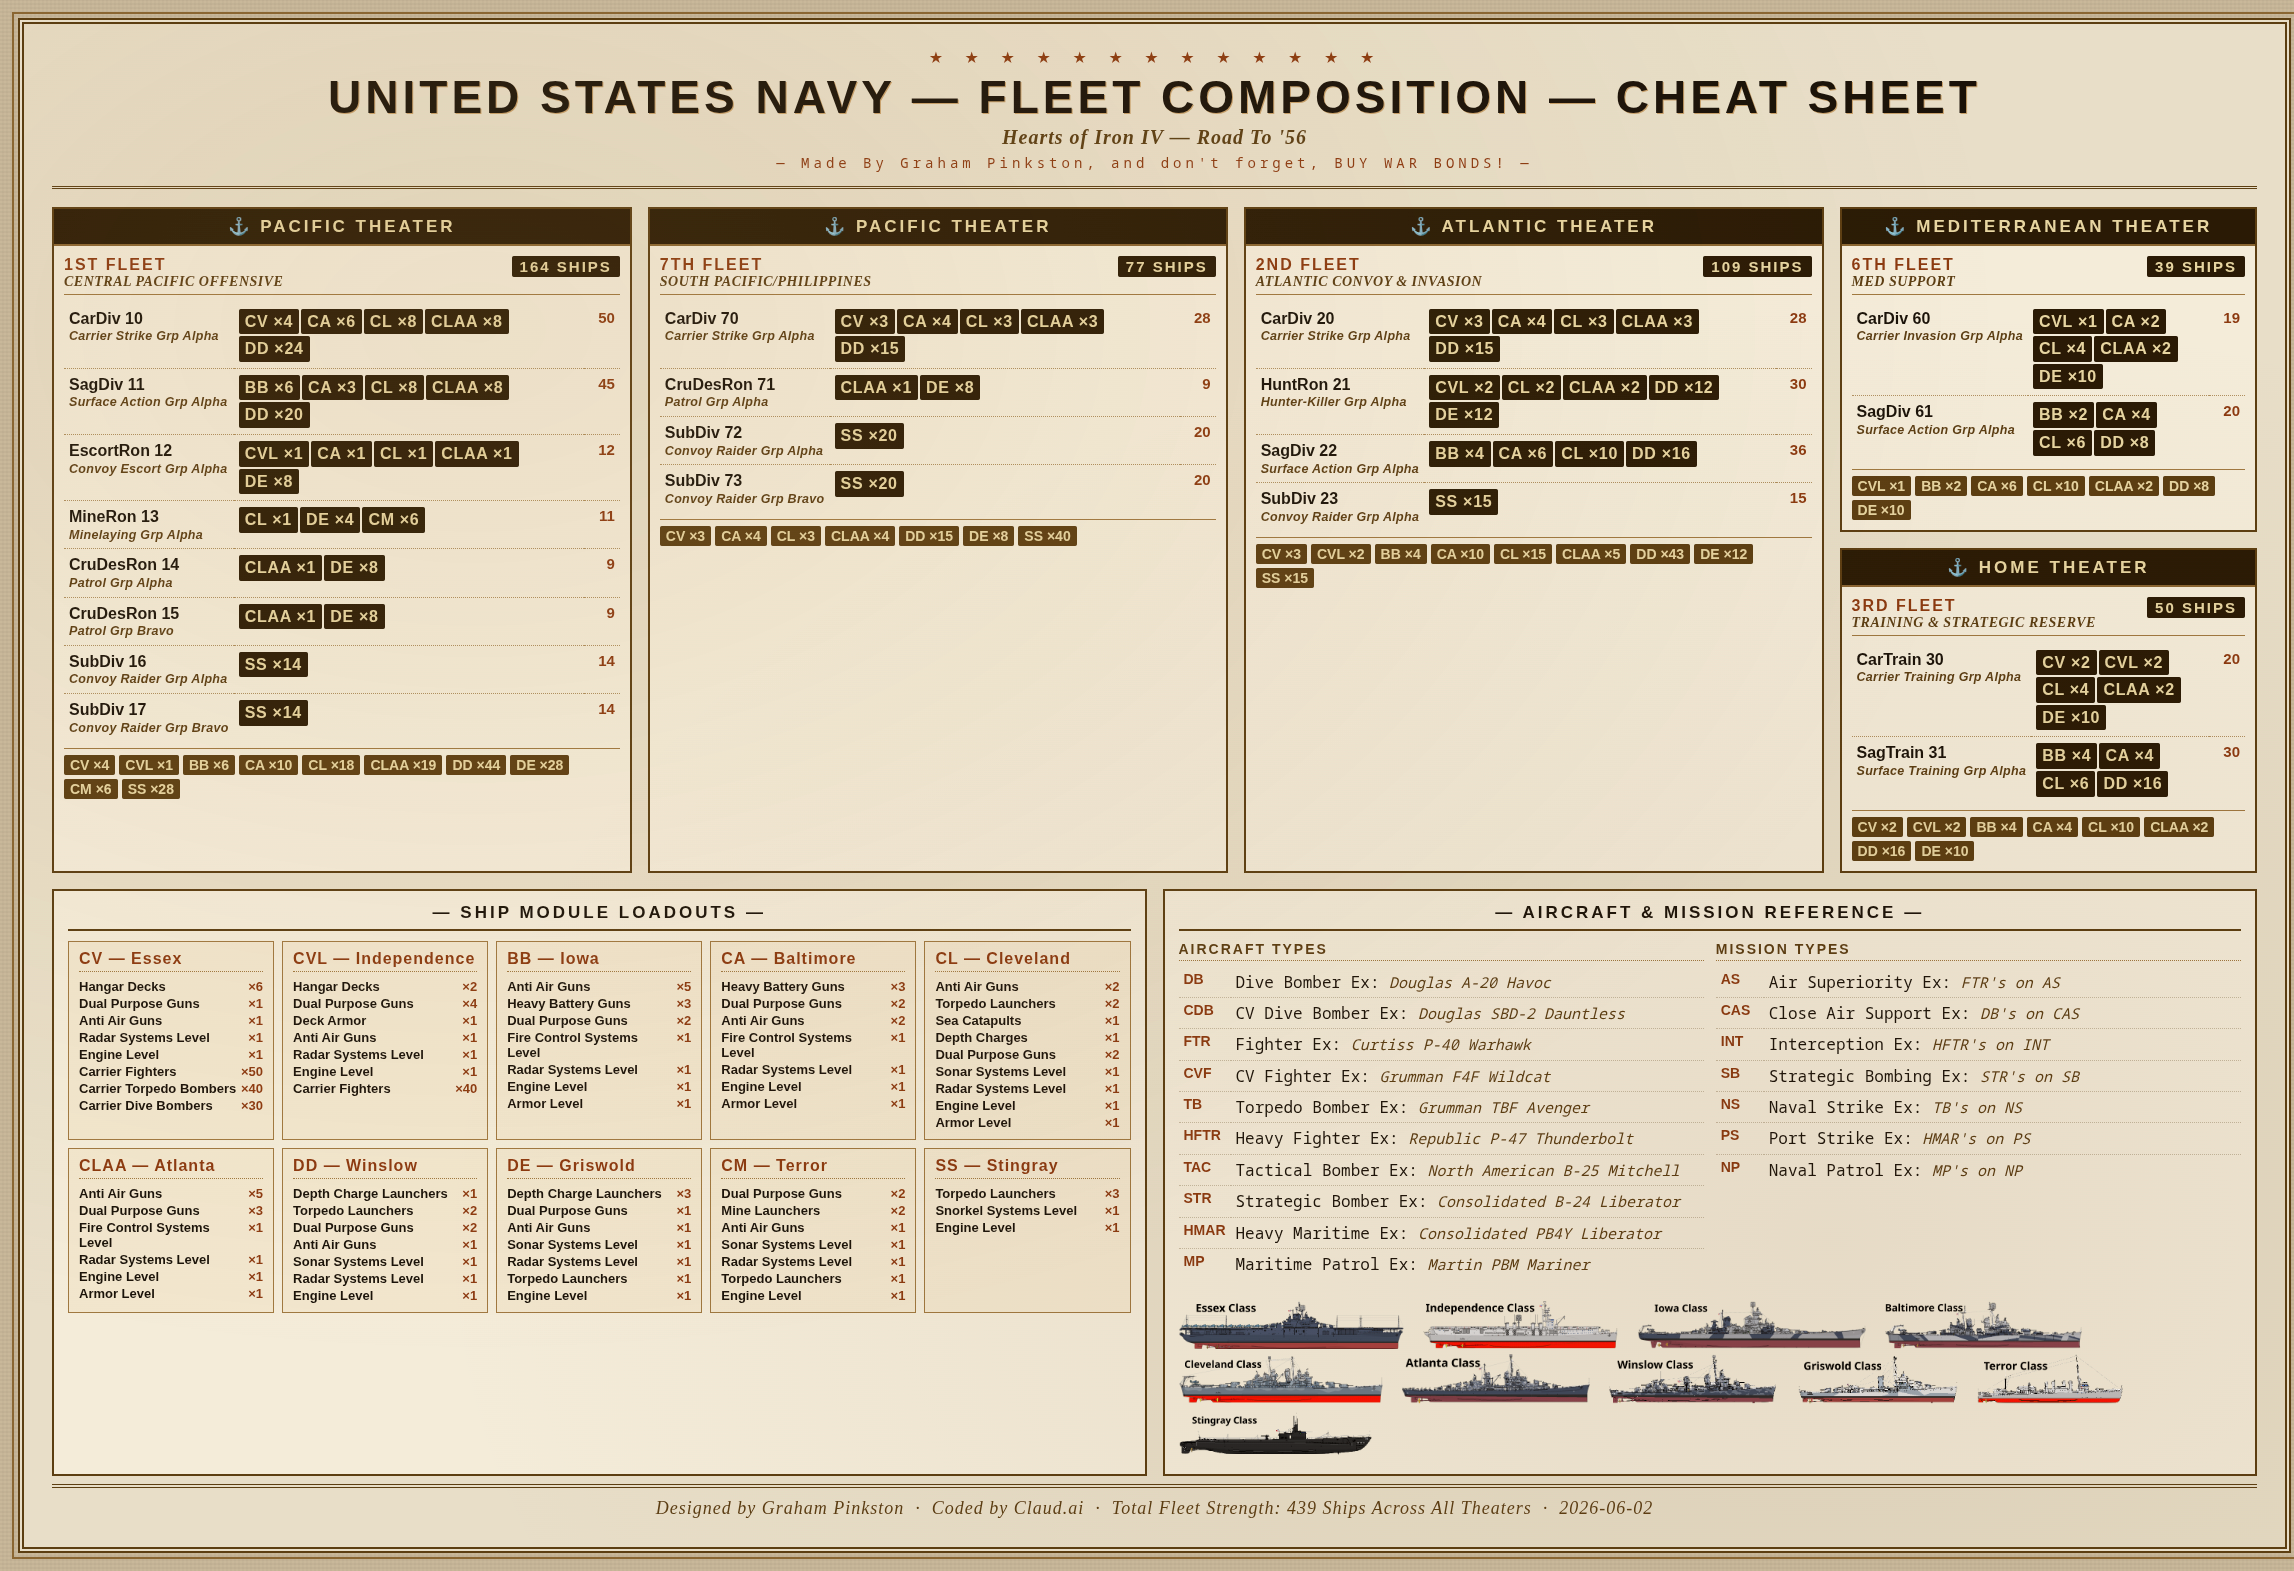
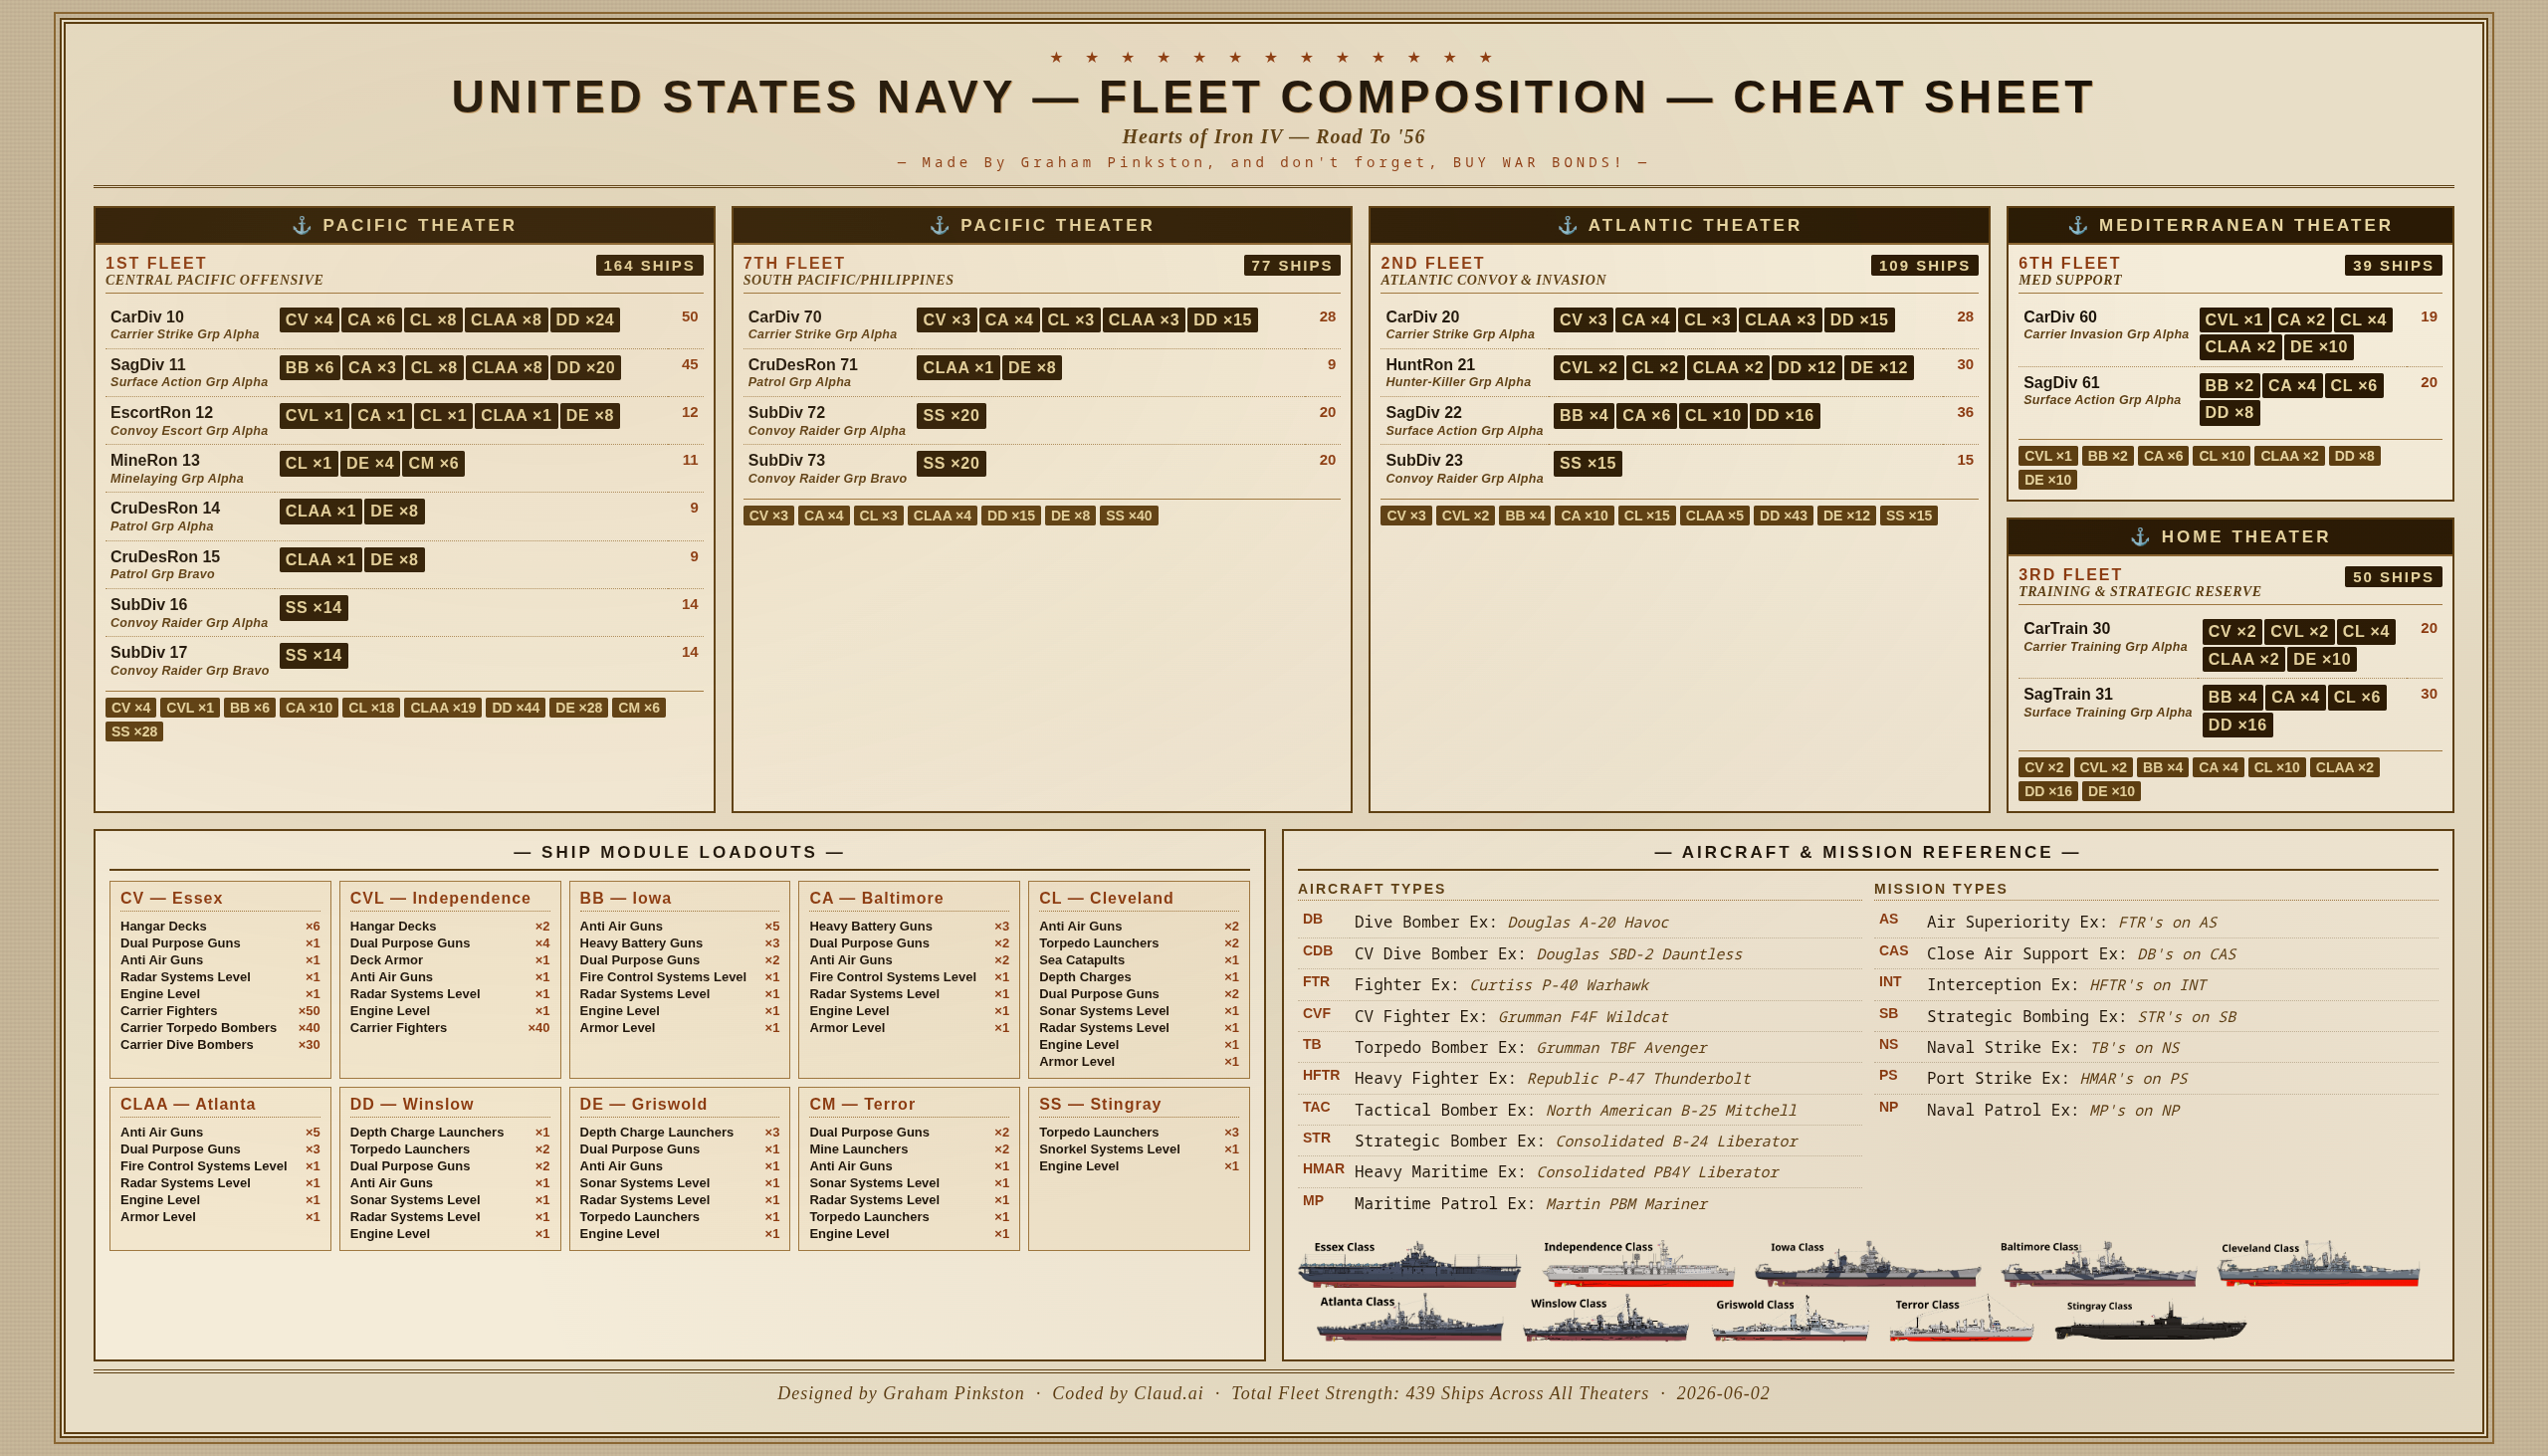
added 6 new themes, removed waste

Changed region(s): [[0.0, 0.0, 1.0, 1.0]]

diff --git a/cheat_sheet.html b/cheat_sheet.html
@@ -5,26 +5,26 @@
 <meta name="viewport" content="width=2560">
 <style>
   :root {
-  --body-bg: #c8b89a;
-  --stripe-a: rgba(0,0,0,.03);
-  --stripe-b: rgba(0,0,0,.02);
-  --page-bg: #e8dfc8;
-  --glow-a: rgba(180,140,80,.13);
-  --glow-b: rgba(100,60,20,.10);
-  --text-primary: #1a1208;
-  --text-secondary: #5c3d11;
-  --accent: #8b3a0f;
-  --heading-shadow: #c8a06a;
-  --border-primary: #5c3d11;
-  --border-outline: #8b6533;
-  --border-mid: #a07840;
-  --border-light: #b09060;
-  --surface-dark: #2a1a05;
-  --surface-dark-text: #e8d5a0;
-  --surface-mid: #5c3d11;
-  --surface-light: rgba(255,248,230,.55);
-  --card-bg: rgba(240,228,200,.7);
-  --legend-divider: rgba(92,61,17,.3);
+  --body-bg: #0a1628;
+  --stripe-a: rgba(255,255,255,.02);
+  --stripe-b: rgba(255,255,255,.01);
+  --page-bg: #0d2040;
+  --glow-a: rgba(0,100,180,.15);
+  --glow-b: rgba(0,60,120,.12);
+  --text-primary: #d4eaf5;
+  --text-secondary: #7ab8d0;
+  --accent: #c9a227;
+  --heading-shadow: rgba(200,160,40,.35);
+  --border-primary: #2a6a8a;
+  --border-outline: #c9a227;
+  --border-mid: #c9a227;
+  --border-light: #2a5a7a;
+  --surface-dark: #051525;
+  --surface-dark-text: #c9a227;
+  --surface-mid: #1a3a5c;
+  --surface-light: rgba(5,20,50,.75);
+  --card-bg: rgba(8,28,58,.85);
+  --legend-divider: rgba(100,180,220,.2);
 }
   
   @import url('https://fonts.googleapis.com/css2?family=Special+Elite&family=Oswald:wght@400;600;700&family=IM+Fell+English:ital@0;1&display=swap');